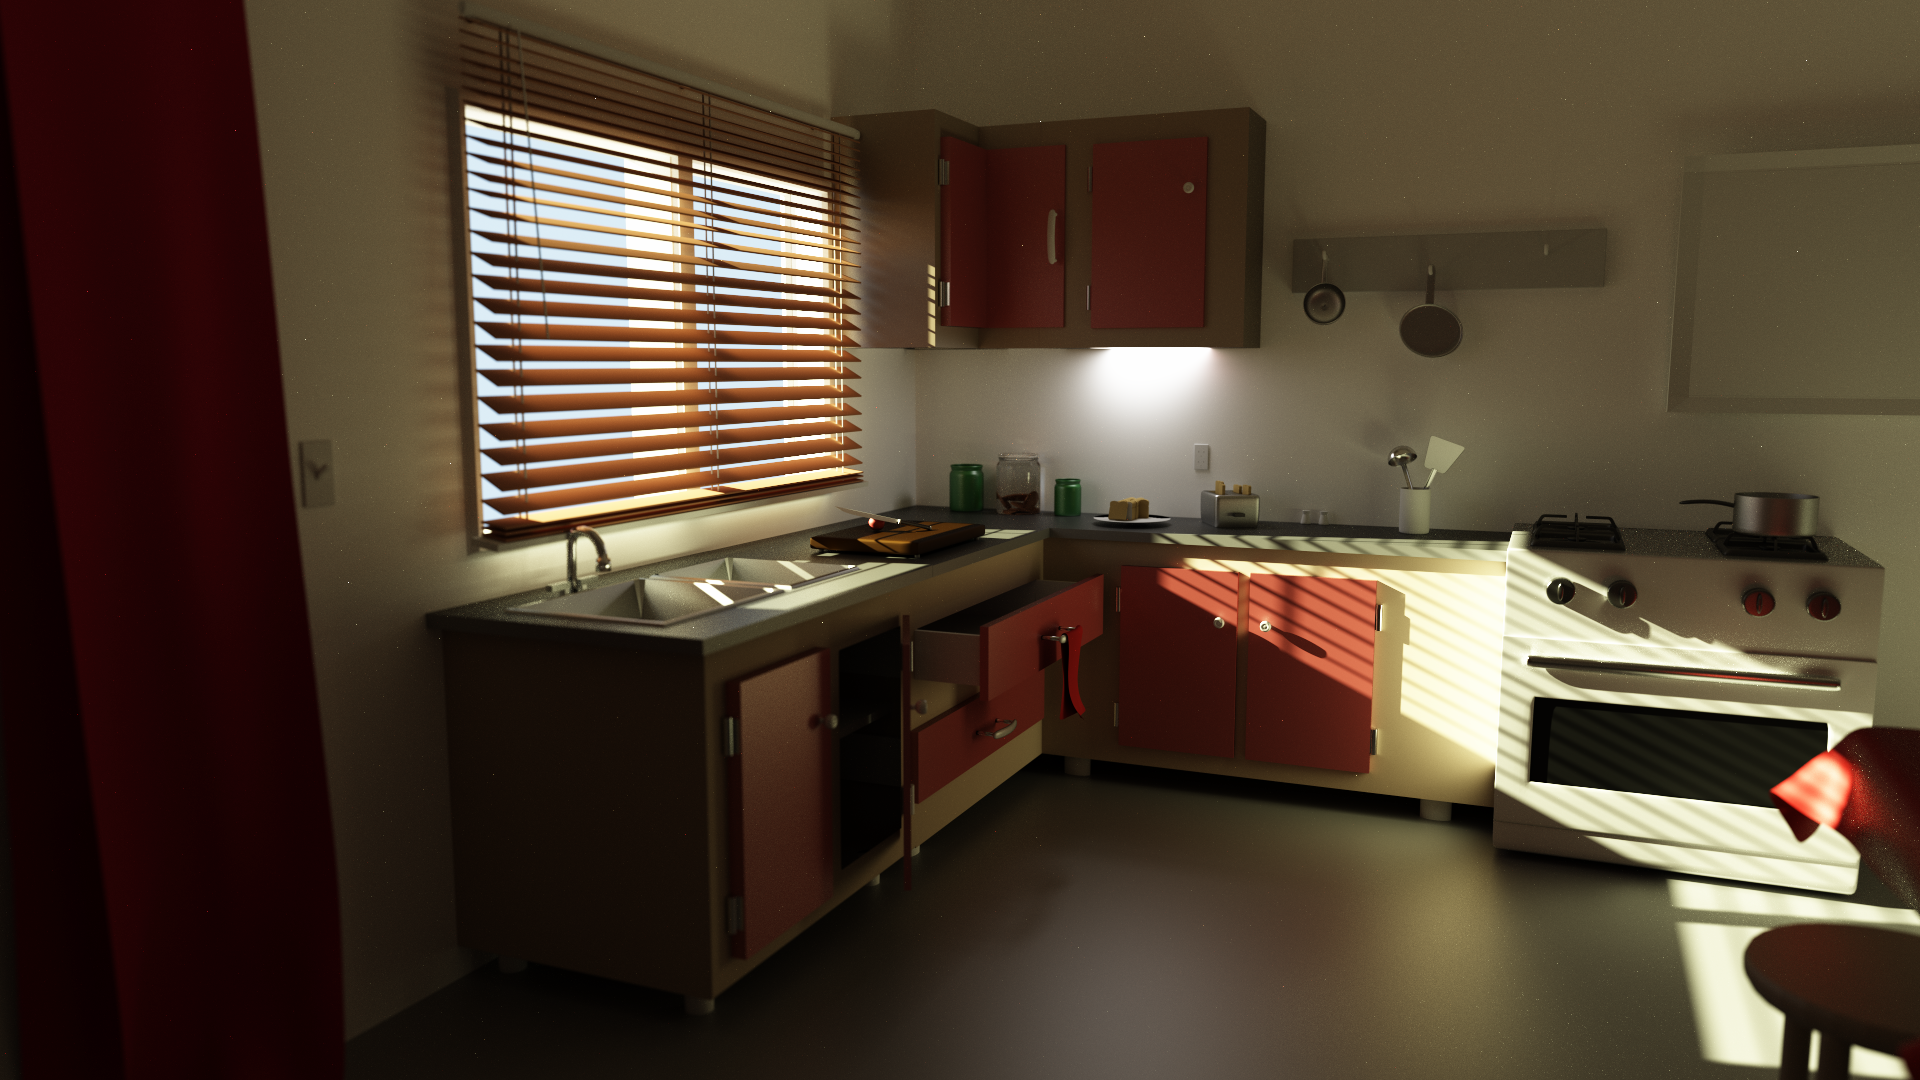
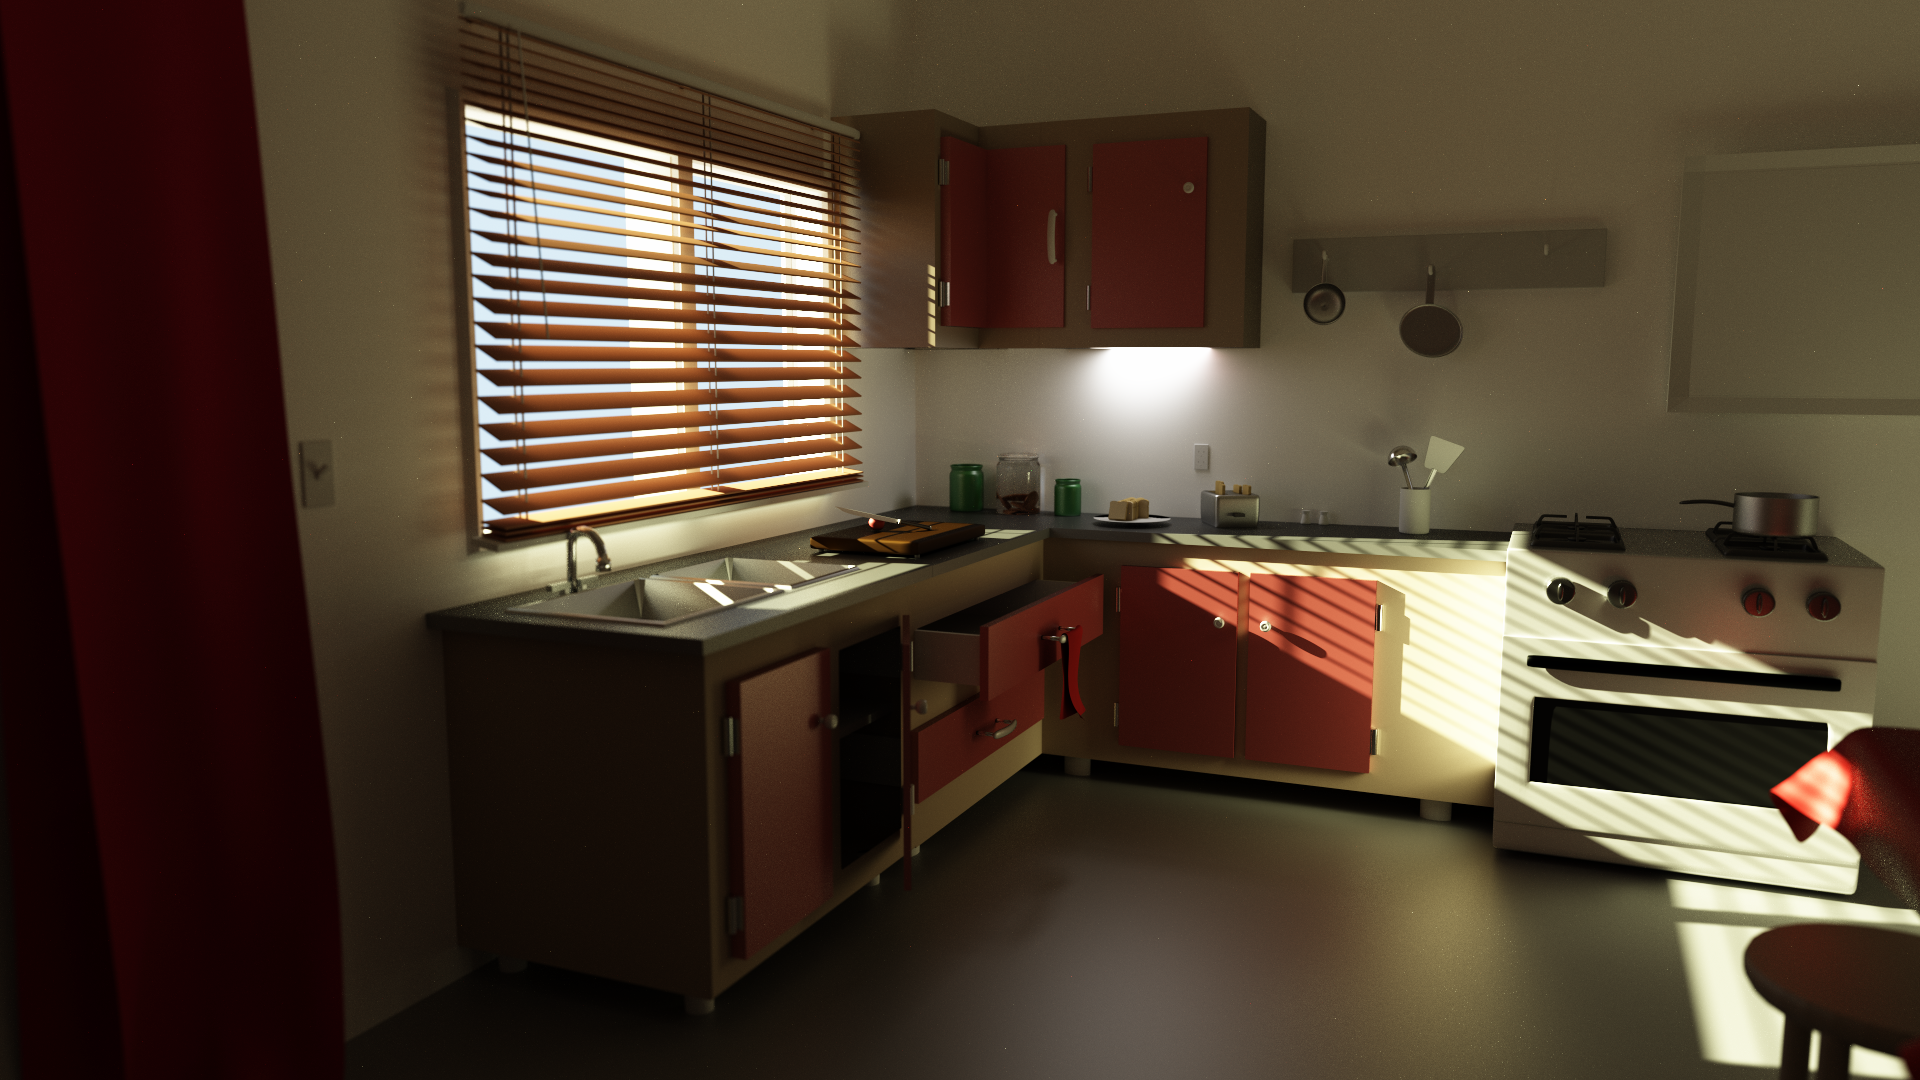
add render

Changed region(s): [[0.7812, 0.5806, 0.9688, 0.6417], [0.6562, 0.7028, 0.7188, 0.7333], [0.5625, 0.4583, 0.5938, 0.4889]]

diff --git a/source/Draw.cpp b/source/Draw.cpp
@@ -394,7 +394,7 @@ void MakeScene(std::shared_ptr<Renderer>& r, std::shared_ptr<Estimator>& e)
     Vector3d target = Vector3d(157, 159, -209);
     Vector3d camdir = target-camPos;
     camdir.Normalize();
-    s->SetCamera(new ThinLensCamera(Vector3d(0, 1, 0), camPos, camdir, XRES, YRES, 75, (Vector3d(120, 161, -139)-camPos).GetLength(), 10.15));
+    s->SetCamera(new ThinLensCamera(Vector3d(0, 1, 0), camPos, camdir, XRES, YRES, 75, (Vector3d(120, 161, -139)-camPos).Length(), 10.15));
     //s->SetCamera(new PinholeCamera(Vector3d(0, 1, 0), camPos, camdir, XRES, YRES, 75));
 
 
@@ -407,10 +407,10 @@ void MakeScene(std::shared_ptr<Renderer>& r, std::shared_ptr<Estimator>& e)
     //camdir.Normalize();
     //s->SetCamera(new PinholeCamera(Vector3d(0, 1, 0), camPos, camdir, XRES, YRES, 40));
 
-    Random ballsR(47);
-    Random test(1);
+    Randomizer ballsR(47);
+    Randomizer test(1);
 
-    Random ballsC(0);
+    Randomizer ballsC(0);
 
     //auto portalLight = new AreaLight(Vector3d(-79, 387, 263), Vector3d(0, 15.0, 0.0), Vector3d(0.0, 0.0, 15.0), Color(7500, 7500, 7500));
     //auto portalLight = new SphereLight(Vector3d(301, 370, -154), 0.11, Color(5000000, 5000000, 5000000));
@@ -454,15 +454,15 @@ void MakeScene(std::shared_ptr<Renderer>& r, std::shared_ptr<Estimator>& e)
     portalLight->AddPortal(Vector3d(500, 800, -1050), Vector3d(0, -800, 0), Vector3d(0, 0, 1600));
     auto boxLight = new AreaLight(Vector3d(3854, 1750, -1770)*100, Vector3d(0.0, 0.0, 5050), Vector3d(0.0, 5050, 0.0), Color(130000000/25, 130000000/25, 130000000/25));
     portalLight->SetLight(boxLight);
-    s->AddLight(boxLight);
-    //s->AddLight(portalLight);
+    //s->AddLight(boxLight);
+    s->AddLight(portalLight);
     ////
 
     LightPortal* portalLight2 = new LightPortal();
     auto skyLight = new UniformEnvironmentLight(Vector3d(0, 0, 0), 100000, 15*Color(0.9, 1.2, 1.5));
     portalLight2->AddPortal(Vector3d(500, 800, -1050), Vector3d(0, -800, 0), Vector3d(0, 0, 1600));
     portalLight2->SetLight(skyLight);
-    //s->AddLight(portalLight2);
+    s->AddLight(portalLight2);
 
     /*auto boxLight = new SphereLight(Vector3d(-43.9, 292, 43.4), 1.11, Color(500000, 500000, 500000));
     boxLight->AddToScene(s);
